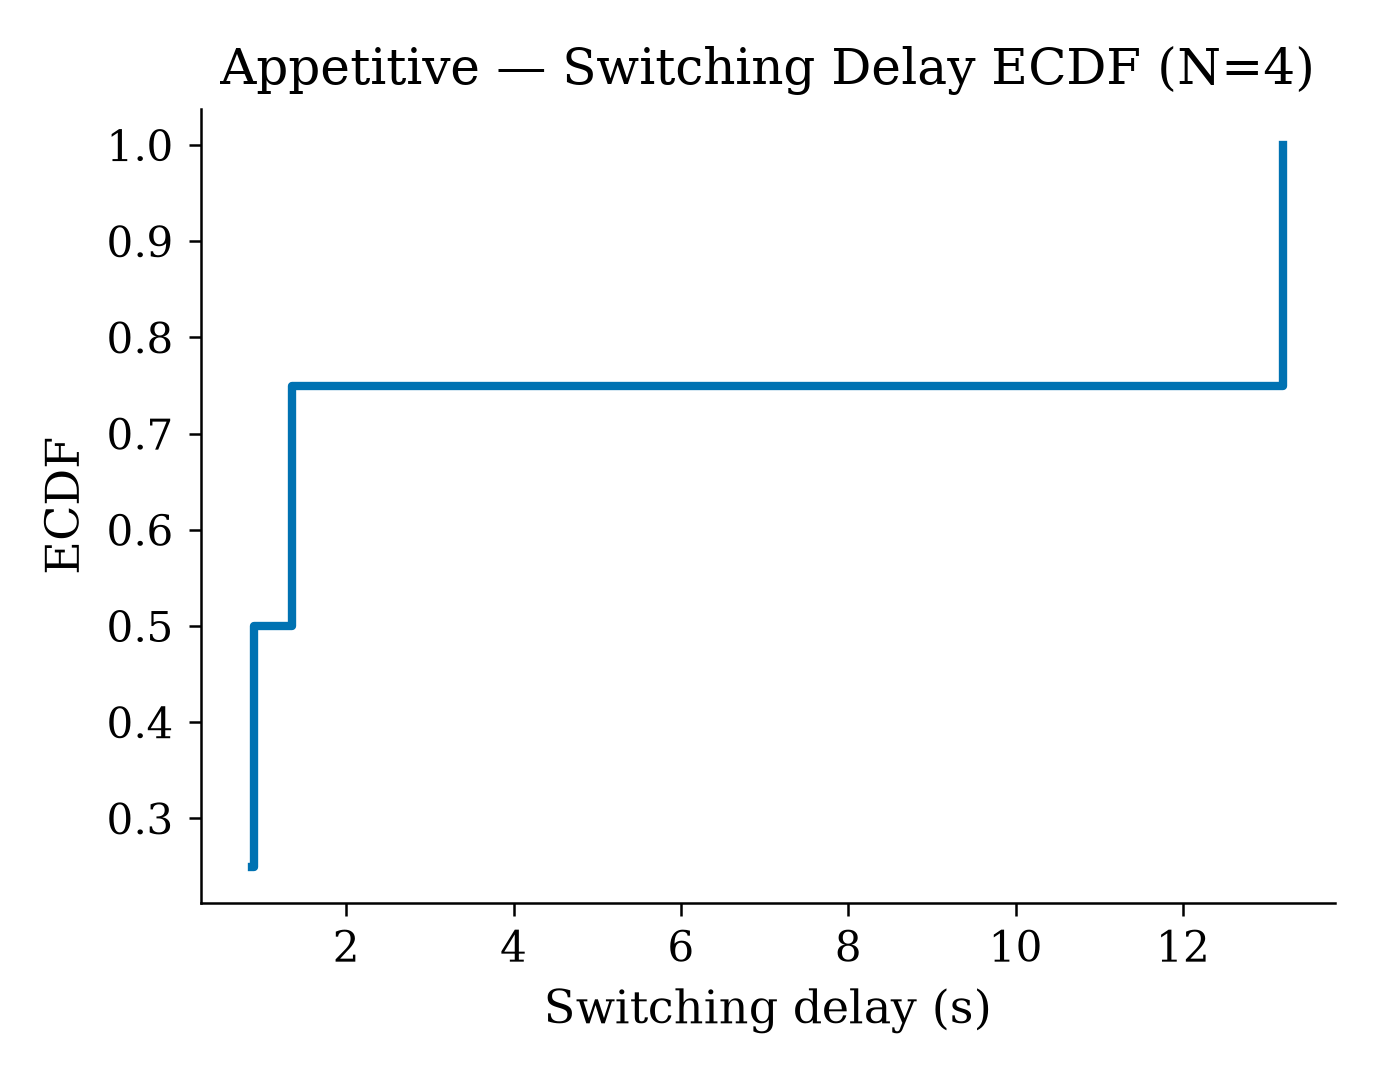
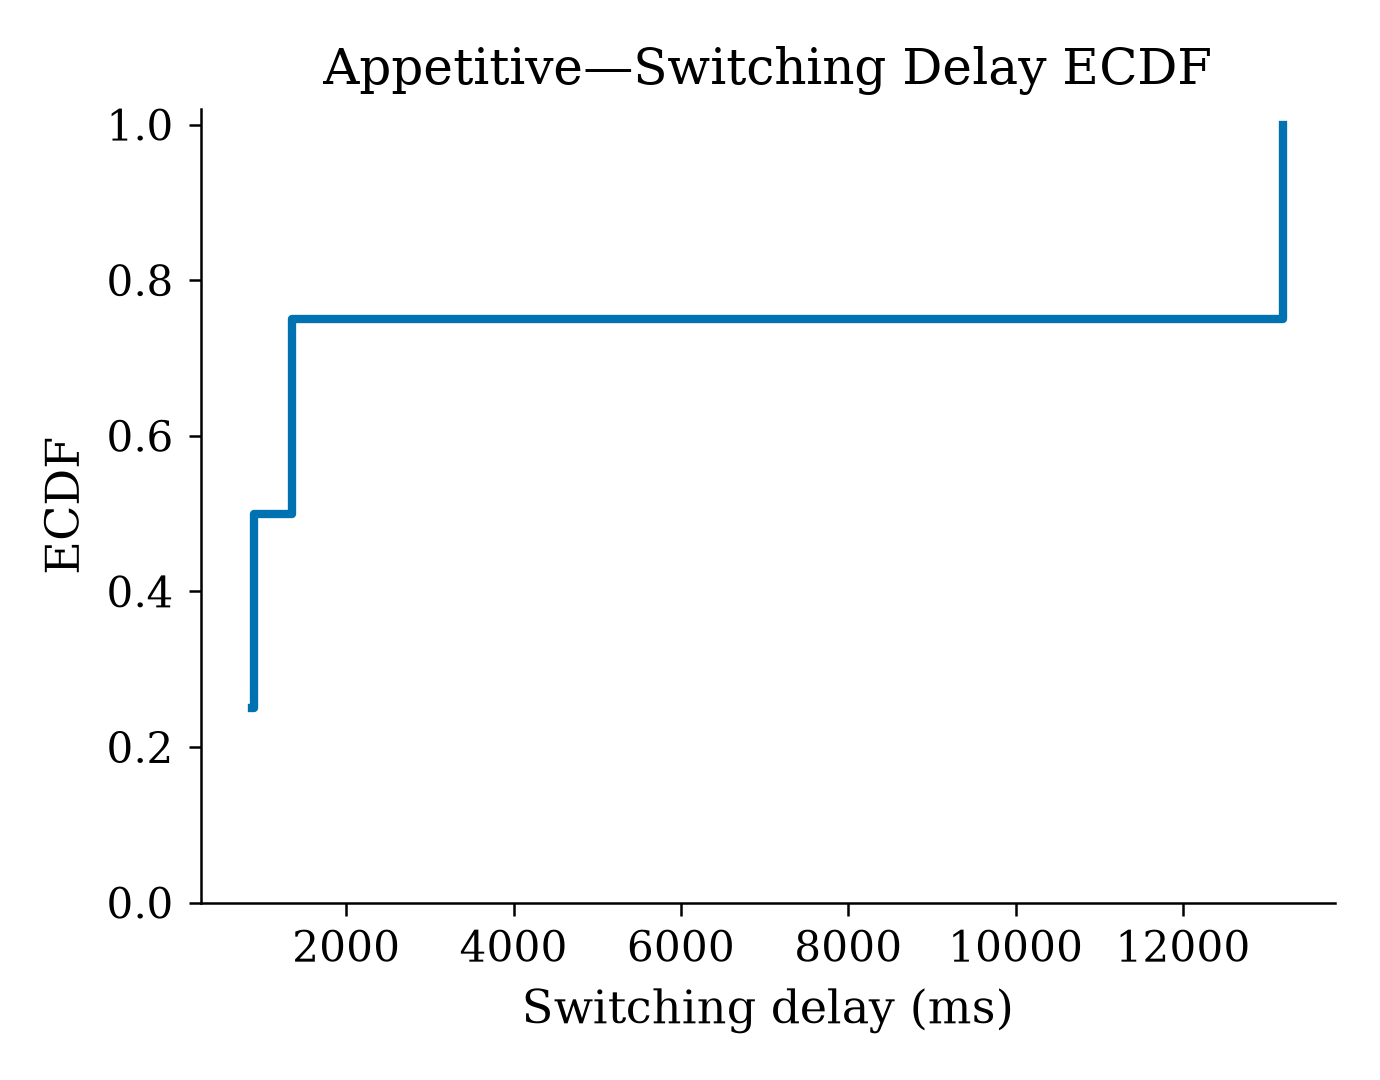
patch: C-72 R3b-04 batch 3 -- one unit, jargon out of the images, last occlusions
11 assets replaced under their existing names; no sections/*.tex change.

Physical ECDFs and Plot_3 (real_plot_suite.py):
- one x unit. It used to be chosen per scenario (use_ms = x[-1] < 1.0), so four
  sibling figures shipped in two units: ms for Aversive/Obstacle, s for
  Appetitive/Complex. All four now in ms -- the delays span 0.4 ms to 13.2 s and
  milliseconds keep every axis readable without a log scale;
- y axis now spans 0..1; autoscaling started it at 0.25-0.33, which reads as a
  truncated axis on a function defined on [0, 1];
- "(N=...)" dropped from the in-image title: R2b-05 already put N in the caption;
- internal trial folder names ("trial StimuliB_t01") were drawn in Plot_2's title
  and Plot_3's suptitle. Removed;
- "B. Chasis" -> "Chassis", the same typo batch 2 fixed in the simulation twin.

FigReal_Morphological_Transition_Energy (energy_transition.py):
- the footnote named our log columns (current_A, robot_cmd). Reworded in
  reader-facing terms, 7 -> 9 pt. NiMH stays: a real hardware spec, and R3b-05
  asked for battery details.

fig_ablation_complex_stability (plot_ablation.py):
- each panel title repeated its own y-label verbatim, and the tallest bar's p
  label was pressed against it. Dropping the redundant title fixes both, since
  the y-label already names the metric; margins(y=0.18) keeps the p labels clear.

fig_stability_phases: literal "---" -> em dash. figsize deliberately untouched.
[…]

diff --git a/patches/c-72-r3b04-batch3-units-jargon.tex b/patches/c-72-r3b04-batch3-units-jargon.tex
@@ -1,0 +1,54 @@
+% Patch record for C-72 -- R3b-04 batch 3: one unit across sibling figures, internal jargon out of
+% the images, and the last text occlusions. Applied 2026-11-01. 11 assets replaced under their
+% existing names; no sections/*.tex text changed.
+%
+% real_plot_suite.py -- the physical ECDFs and Plot_3 (8 assets)
+% - ONE X UNIT. The unit used to be chosen per scenario (`use_ms = x[-1] < 1.0`), so four sibling
+%   figures shipped with two different units: ms for Aversive/Obstacle, s for Appetitive/Complex.
+%   That is the same simulation-vs-physical inconsistency Reviewer 3 item 4 names, here between
+%   panels of one suite. All four are now in ms. Checked before choosing: the delays span
+%   0.4 ms (Obstacle) to 13.2 s (Appetitive), four orders of magnitude, and milliseconds keep every
+%   scenario's axis readable without resorting to a log scale.
+% - Y AXIS FROM 0. An ECDF is defined on [0, 1]; autoscaling started these axes at 0.25-0.33 (1/n of
+%   the first step), which reads as a truncated axis. Now ylim (0, 1.02).
+% - The in-image title carried "(N=...)", duplicating what R2b-05 put in the caption. Removed.
+% - Internal trial folder names were drawn inside two of the figures: Plot_2's title and Plot_3's
+%   suptitle both printed e.g. "(trial StimuliB_t01)". That is our bookkeeping, meaningless to a
+%   reader; which trial is shown belongs in the caption. Removed from both.
+% - "B. Chasis" -> "B. Chassis": the same typo batch 2 fixed in the simulation builder also lived
+%   in this physical one.
+%
+% energy_transition.py -- FigReal_Morphological_Transition_Energy (1 asset)
+% - The footnote named our log columns: "Power = |current_A| x 7.2V (fixed NiMH pack voltage);
+%   N = real detected robot_cmd transitions". `current_A` and `robot_cmd` are column names. Same
+%   statement in reader-facing terms, and 7 pt raised to 9. "NiMH" stays: that is a genuine hardware
+%   specification, and R3b-05 asked for battery details in captions.
+%
+% plot_ablation.py -- fig_ablation_complex_stability (1 asset)
+% - Each panel's title repeated its own y-label verbatim ("Roll RMS (deg)" twice), and the tallest
+%   bar's p label was pressed against it: zoomed, the "g" descender of "(deg)" touched the "p=" text
+%   (they touched, they did not overprint -- a spacing problem, as the diagnosis addendum noted).
+%   Dropping the redundant panel title fixes both at once, since the y-label already names the
+%   metric; margins(y=0.18) then keeps the p labels clear of the top spine. p labels and x tick
+%   labels raised 8 -> 9 pt.
+% - fig_ablation_success_rate was regenerated by the same script and came out byte-identical, so it
+%   was not promoted.
+%
+% stability_phases.py -- fig_stability_phases (1 asset)
+% - Literal "---" in the suptitle -> em dash. The figsize item from the diagnosis is deliberately
+%   NOT addressed: the author ruled on 2026-11-01 that figure sizing on the page belongs to the
+%   journal's production stage.
+%
+% DATA UNCHANGED. Every figure was regenerated from the CSVs it already read, and the one script
+% whose output should not have moved (fig_ablation_success_rate) confirmed it by coming out
+% byte-identical.
+%
+% FINDING FOR THE AUTHOR, open question (a) -- Appetitive physical replicate count
+% Computing the switching delays for this batch answered it with data: experiments/real/ yields
+% FOUR Appetitive trials with a valid delay (StimuliB_t01..t04): 0.876 s, 0.902 s, 1.349 s and
+% 13.200 s. The other three scenarios have three each. So "three hardware replicates" in the
+% caption (results.tex ~l.875/894) does not match the data, and the ECDF now makes the fourth trial
+% impossible to miss: its 13.2 s step is ~10x the other three and stretches the axis to 13000 ms.
+% Either the caption becomes "four", or t04 was excluded for a reason nobody has written down -- in
+% which case it must also be dropped from this figure, since it is currently plotted. Author's call;
+% not changed here.

diff --git a/experiments/_plotting/builders/real_plot_suite.py b/experiments/_plotting/builders/real_plot_suite.py
@@ -93,13 +93,23 @@ def build_ecdf(real_root: str, output_dir: str) -> dict:
         fig, ax = plt.subplots(figsize=(4.6, 3.6))
         if delays:
             x = np.sort(delays)
-            use_ms = x[-1] < 1.0
-            x_plot = x * 1000.0 if use_ms else x
+            # R3b-04 batch 3: the unit used to be picked per scenario (`use_ms = x[-1] < 1.0`), so
+            # these four sibling figures shipped with two different x units -- ms for
+            # Aversive/Obstacle, s for Appetitive/Complex. That is precisely the simulation-vs-real
+            # inconsistency Reviewer 3 item 4 is about, only between panels of the same suite.
+            # Fixed to ms for all four: the delays span 0.4 ms to 13.2 s, and milliseconds keep
+            # every scenario's numbers readable without a log axis.
+            x_plot = x * 1000.0
             y = np.arange(1, len(x) + 1) / len(x)
             ax.step(x_plot, y, where="post", color=SCENARIO_COLORS[scenario], linewidth=2)
-        ax.set_xlabel("Switching delay (ms)" if delays and use_ms else "Switching delay (s)")
+        # An ECDF runs from 0 to 1 by definition; autoscaling started these axes at 0.25-0.33
+        # (1/n of the first step), which reads as a truncated axis.
+        ax.set_ylim(0, 1.02)
+        ax.set_xlabel("Switching delay (ms)")
         ax.set_ylabel("ECDF")
-        ax.set_title(f"{scenario} — Switching Delay ECDF (N={len(delays)})")
+        # N belongs in the caption (R2b-05 put it there); repeating it inside the image is the
+        # duplicated-title problem the diagnosis flags.
+        ax.set_title(f"{scenario}\u2014Switching Delay ECDF")
         fig.tight_layout()
         out = os.path.join(output_dir, f"{scenario}_Real_Plot_1_Switching_Delay_ECDF.png")
         fig.savefig(out, dpi=DPI)
@@ -122,7 +132,7 @@ def build_bg_dynamics(real_root: str, output_dir: str) -> None:
         ax.plot(t, df["firing_variance"], color=SCENARIO_COLORS[scenario], linewidth=1.2)
         ax.set_xlabel("Time (s)")
         ax.set_ylabel("Firing variance")
-        ax.set_title(f"{scenario} — Basal Ganglia Dynamics (trial {os.path.basename(dirs[0])})")
+        ax.set_title(f"{scenario}\u2014Basal Ganglia Dynamics")
         fig.tight_layout()
         out = os.path.join(output_dir, f"{scenario}_Real_Plot_2_Basal_Ganglia_Dynamics.png")
         fig.savefig(out, dpi=DPI)
@@ -188,7 +198,7 @@ def build_rms_dynamics(real_root: str, output_dir: str) -> None:
                   label="Roll RMS")
         ax_b.set_xlabel("Experimental Time (s)")
         ax_b.set_ylabel("Attitude Space RMS (deg)")
-        ax_b.set_title("B. Chasis Kinematic Attitude Stabilization Space")
+        ax_b.set_title("B. Chassis Kinematic Attitude Stabilization Space")
         ax_b.legend(loc="lower right")
 
         # ROUND-3 FIX (2026-08-27, per n02_audit_notes, Obstacle specifically): panel B's
@@ -201,7 +211,9 @@ def build_rms_dynamics(real_root: str, output_dir: str) -> None:
         ax_a.set_xlim(ax_b.get_xlim())
 
         fig.tight_layout(rect=(0, 0, 1, 0.96))
-        fig.suptitle(f"{scenario} (trial {os.path.basename(trial_dir)})", fontsize=10)
+        # The trial folder name (e.g. "StimuliB_t01") is our own bookkeeping, meaningless to a
+        # reader; which trial is shown is stated in the caption instead.
+        fig.suptitle(scenario)
         out = os.path.join(output_dir, f"{scenario}_Real_Plot_3_Temporal_Dynamics_PitchRollRMS.png")
         fig.savefig(out, dpi=DPI)
         plt.close(fig)

diff --git a/experiments/R3-02-wta-vs-threshold/scripts/plot_ablation.py b/experiments/R3-02-wta-vs-threshold/scripts/plot_ablation.py
@@ -101,11 +101,16 @@ def plot_complex_stability(rows):
         for x, m in zip(xs, VARIANT_ORDER):
             p = sub[m]["p_value_vs_full"]
             if p:
-                ax.text(x, heights[x] + errs[1][x] + 0.03, fmt_p(p), ha="center", va="bottom", fontsize=8)
+                ax.text(x, heights[x] + errs[1][x] + 0.03, fmt_p(p), ha="center", va="bottom", fontsize=9)
         ax.set_xticks(xs)
-        ax.set_xticklabels([VARIANT_LABEL[m] for m in VARIANT_ORDER], fontsize=8)
-        ax.set_title(metric_label[metric], fontsize=10)
+        ax.set_xticklabels([VARIANT_LABEL[m] for m in VARIANT_ORDER], fontsize=9)
+        # R3b-04 batch 3: the panel title used to repeat the y-label verbatim ("Roll RMS (deg)"
+        # twice), and the tallest bar's p label was pressed right against it -- zoomed, the "g"
+        # descender of "(deg)" touched the "p=" text. Dropping the redundant title fixes both at
+        # once; the y-label already names the metric. margins() then keeps the p labels clear of
+        # the top spine.
         ax.set_ylabel(metric_label[metric])
+        ax.margins(y=0.18)
     fig.suptitle("Attitude stability under conflict (Complex Navigation), Mann-Whitney p vs. full", fontsize=10)
     fig.tight_layout()
     out = os.path.join(OUT_DIR, "fig_ablation_complex_stability.png")

diff --git a/experiments/_plotting/builders/energy_transition.py b/experiments/_plotting/builders/energy_transition.py
@@ -115,8 +115,10 @@ def build(real_root: str, output_path: str) -> dict:
                     ha="center", va="bottom", fontsize=9)
     ax.set_ylabel("Transition Energy (J)")
     ax.set_title("Morphological Transition Energy per Direction")
-    fig.text(0.5, 0.01, "Power = |current_A| x 7.2V (fixed NiMH pack voltage); N = real detected"
-              " robot_cmd transitions, not an inferred peak", ha="center", fontsize=7, color="#555555")
+    # R3b-04 batch 3: this footnote named our own log columns ("current_A", "robot_cmd"), which
+    # mean nothing to a reader. Same wording in reader-facing terms; 7 pt raised to 9.
+    fig.text(0.5, 0.01, "Power = |current| x 7.2 V (NiMH pack voltage); N = detected mode"
+              " transitions, not an inferred peak", ha="center", fontsize=9, color="#555555")
     fig.tight_layout(rect=(0, 0.05, 1, 1))
     os.makedirs(os.path.dirname(output_path), exist_ok=True)
     fig.savefig(output_path, dpi=DPI)

diff --git a/experiments/_plotting/builders/stability_phases.py b/experiments/_plotting/builders/stability_phases.py
@@ -106,7 +106,7 @@ def build(csv_path: str, output_path: str) -> None:
     handles, labels = axes.flat[0].get_legend_handles_labels()
     fig.legend(handles, labels, loc="lower center", ncol=len(labels), fontsize=9,
               bbox_to_anchor=(0.5, 0.0))
-    fig.suptitle("PETER Quadruped --- Static Stability Analysis\nMcGhee-Frank (1968) Stability Margin",
+    fig.suptitle("PETER Quadruped\u2014Static Stability Analysis\nMcGhee-Frank (1968) Stability Margin",
                 fontsize=13, fontweight="bold")
     fig.tight_layout(rect=(0, 0.06, 1, 0.93))
     os.makedirs(os.path.dirname(output_path), exist_ok=True)

diff --git a/PROGRESS.md b/PROGRESS.md
@@ -126,3 +126,4 @@ Resolved by renumbering the second-arriving set (Sebas's) to the next free IDs a
 | C-69 | — | **Resolve the Roll RMS contradiction Sam flagged in PR #17**: the prose said the mean Roll RMS stays ≤1.59° "across both variable-topography terrains" while `tab:fsm_comparison` reports Inclined Slope/Neural 6.751 ± 7.160° (N=3). Root cause found in the per-trial logs: **two independent batteries of the same two terrain scenarios** were being cited as one (`experiments/simulation/` → prose and figure, slope mean 1.469 / rugged 1.586; `R3-04-noise-robustness/data/` → the table's terrain rows, slope mean 2.997 / rugged 1.784), plus a logging artifact in one trial (`familia_c2_pendiente/test_006_SUCCESS`: Roll RMS below 1.486° for 67.8 s, median 1.398° like its peers, then a 0.6 s climb to 16.876° after which every telemetry column repeats bit-for-bit for 3.0 s). Note the table's Rugged/Neural row (1.827°) already exceeded the bound with no outlier, so telling the datasets apart was the real fix. Author decision 2026-10-31: **scope the claim and explain the table, exclude no data** — no number changed, no trial dropped. Still open, not this row: whether to reconcile the two batteries for the final version. | results.tex (transition-stability paragraph ~l.466, `tab:fsm_comparison` caption) | `experiments/R3-04-noise-robustness/data/`, `experiments/simulation/` | Escritura | Deivi | applied | `patches/c-69-roll-rms-contradiction.tex` |
 | C-70 | 3 | **R3b-04 batch 1 — typeface unification (simulation vs physical).** Regenerated and promoted 6 assets: `NEU_IMU_real`, `NEU_IMU2_real`, `GRAPH_IMU_real`, `GRAPH_IMU2_real` (were sans-serif, the only four left that way) plus their simulation twins `NEU_IMU`, `NEU_IMU2`, which the same builder change touches. **Root cause confirmed, not inferred:** the builder already applies `style.py` at import, so those four PNGs simply predated it and had never been regenerated — re-running the builder unchanged altered exactly those four and left the other three it writes byte-identical. Builder fixes the regeneration exposed: panel height now follows each panel's neuron count (an 11-neuron panel used to get the same height as a 3-neuron one, making the X3..X13 labels an unreadable block), group titles now always anchored to the rendered panel title instead of the hardcoded y=0.975/0.475 that only fitted the old layout, and the literal `--` in the GRAPH title is now a real em dash. **Answers open question (b) of the diagnosis:** the `Locomotion 2 / X17` panel is blank because X17 is flat at ~0 for 729 of 731 samples and its only two samples above 0.5 are the first and the last of the record (an edge artifact of the capture, not activity); the simulation twins already dropped that panel under `C-53`, so keeping it only on the physical side was itself a sim-vs-physical inconsistency. Dropped on both, reversible in one argument. No `sections/*.tex` text changed (file names unchanged); captions are the last step of R3b-04. Not fixed here: effective font size in the compiled PDF (these are authored 8 in wide and placed at `0.5\textwidth`), in-image titles duplicating captions, palette and jargon items. | assets (6 figures), `experiments/_plotting/builders/imu_terrain_real.py` | `experiments/N-01-simulation-figure-regeneration/`, `experiments/N-02-physical-figure-regeneration/` | Pruebas | Deivi | applied | `patches/c-70-r3b04-batch1-typeface.tex` |
 | C-71 | 3 | **R3b-04 batch 2 — in-figure legibility defects.** 7 assets regenerated and promoted, no `sections/*.tex` change. `fig2_*_micro` (×4): panel B title `Chasis`→`Chassis`; panel B legend was pinned to `lower right`, exactly where the dashed Roll RMS curve settles, so in `fig2_Obstacle` the data struck through the legend text — now `best`; panel A legend 8 pt → the style's 10. `GRAPH_IMU`/`GRAPH_IMU2`: the `U_σaz threshold` annotation sat where the σaz trace crosses the threshold and was struck through by it — kept at the right edge (the left is the legend's) with an opaque white backing, so the trace passes behind it; same backing for the legend, which the horizontal threshold line crossed; two literal `---` → em dashes; legend 8 pt → 10; removed the dashed grid (the only figure still drawing one against `axes.grid False`); tab10 blue/orange → the shared Okabe-Ito aliases. `fig_classifier_tradeoff_fused`: panel (a) legend 6.5 pt (smallest text in the manuscript) and x ticks 7 pt → 9 pt, legend re-laid as 2×2 with headroom since a readable 4-column row overflows the panel. **Data verified unchanged** against every replaced asset. Trap recorded for whoever regenerates next: the `fig2_*_micro` come from `experiments/R3-04-noise-robustness/data`, as that experiment's README documents — regenerating them with `generate_all_simulation.py`'s default root silently produces different curves. Deferred to the next batch: the ECDF x unit and y origin, `fig_stability_phases` suptitle and CoM marker, the ablation p-label spacing, remaining palette collisions, and in-image titles duplicating captions. | assets (7 figures), `builders/micro_dynamics.py`, `builders/imu_dual_axis.py`, `builders/classifier_suite.py` | `experiments/R3-04-noise-robustness/`, `experiments/N-01-simulation-figure-regeneration/`, `experiments/N-02-physical-figure-regeneration/` | Pruebas | Deivi | applied | `patches/c-71-r3b04-batch2-defects.tex` |
+| C-72 | 3 | **R3b-04 batch 3 — one unit across sibling figures, jargon out of the images, last occlusions.** 11 assets, no `sections/*.tex` change. Physical ECDFs: the x unit was picked per scenario (`use_ms = x[-1] < 1.0`), so four sibling figures shipped in two different units (ms for Aversive/Obstacle, s for Appetitive/Complex) — all four now in ms (delays span 0.4 ms to 13.2 s; ms keeps every axis readable without a log scale); y axis now spans 0–1 instead of starting at 0.25–0.33; `(N=…)` dropped from the in-image title (it duplicates the caption R2b-05 wrote). Internal trial folder names (`StimuliB_t01`) were drawn in Plot_2's title and Plot_3's suptitle — removed. `B. Chasis`→`Chassis`, the same typo batch 2 fixed in the simulation builder. Energy figure: footnote named our log columns (`current_A`, `robot_cmd`) — reworded, 7→9 pt (`NiMH` stays, it is a real hardware spec R3b-05 asked for). Ablation stability: each panel title repeated its own y-label and the tallest bar's p label touched its `(deg)` descenders — redundant title dropped, `margins(y=0.18)` added, p and tick labels 8→9 pt. `fig_stability_phases`: literal `---`→em dash (figsize deliberately untouched per the author's ruling that page sizing is the journal's production stage). **Opens nothing new: answers question (a) with data** — `experiments/real/` has FOUR Appetitive trials with a valid delay (0.876, 0.902, 1.349, 13.200 s) vs three in every other scenario, so the caption's "three hardware replicates" does not match, and the fourth is now plainly visible as a 13.2 s step. Author's call: caption becomes four, or t04 is excluded for a written reason and dropped from the figure too. | assets (11 figures), `builders/real_plot_suite.py`, `builders/energy_transition.py`, `builders/stability_phases.py`, `R3-02-wta-vs-threshold/scripts/plot_ablation.py` | `experiments/real/`, `experiments/N-01-…`, `experiments/N-02-…`, `experiments/R3-02-…` | Pruebas | Deivi | applied | `patches/c-72-r3b04-batch3-units-jargon.tex` |
